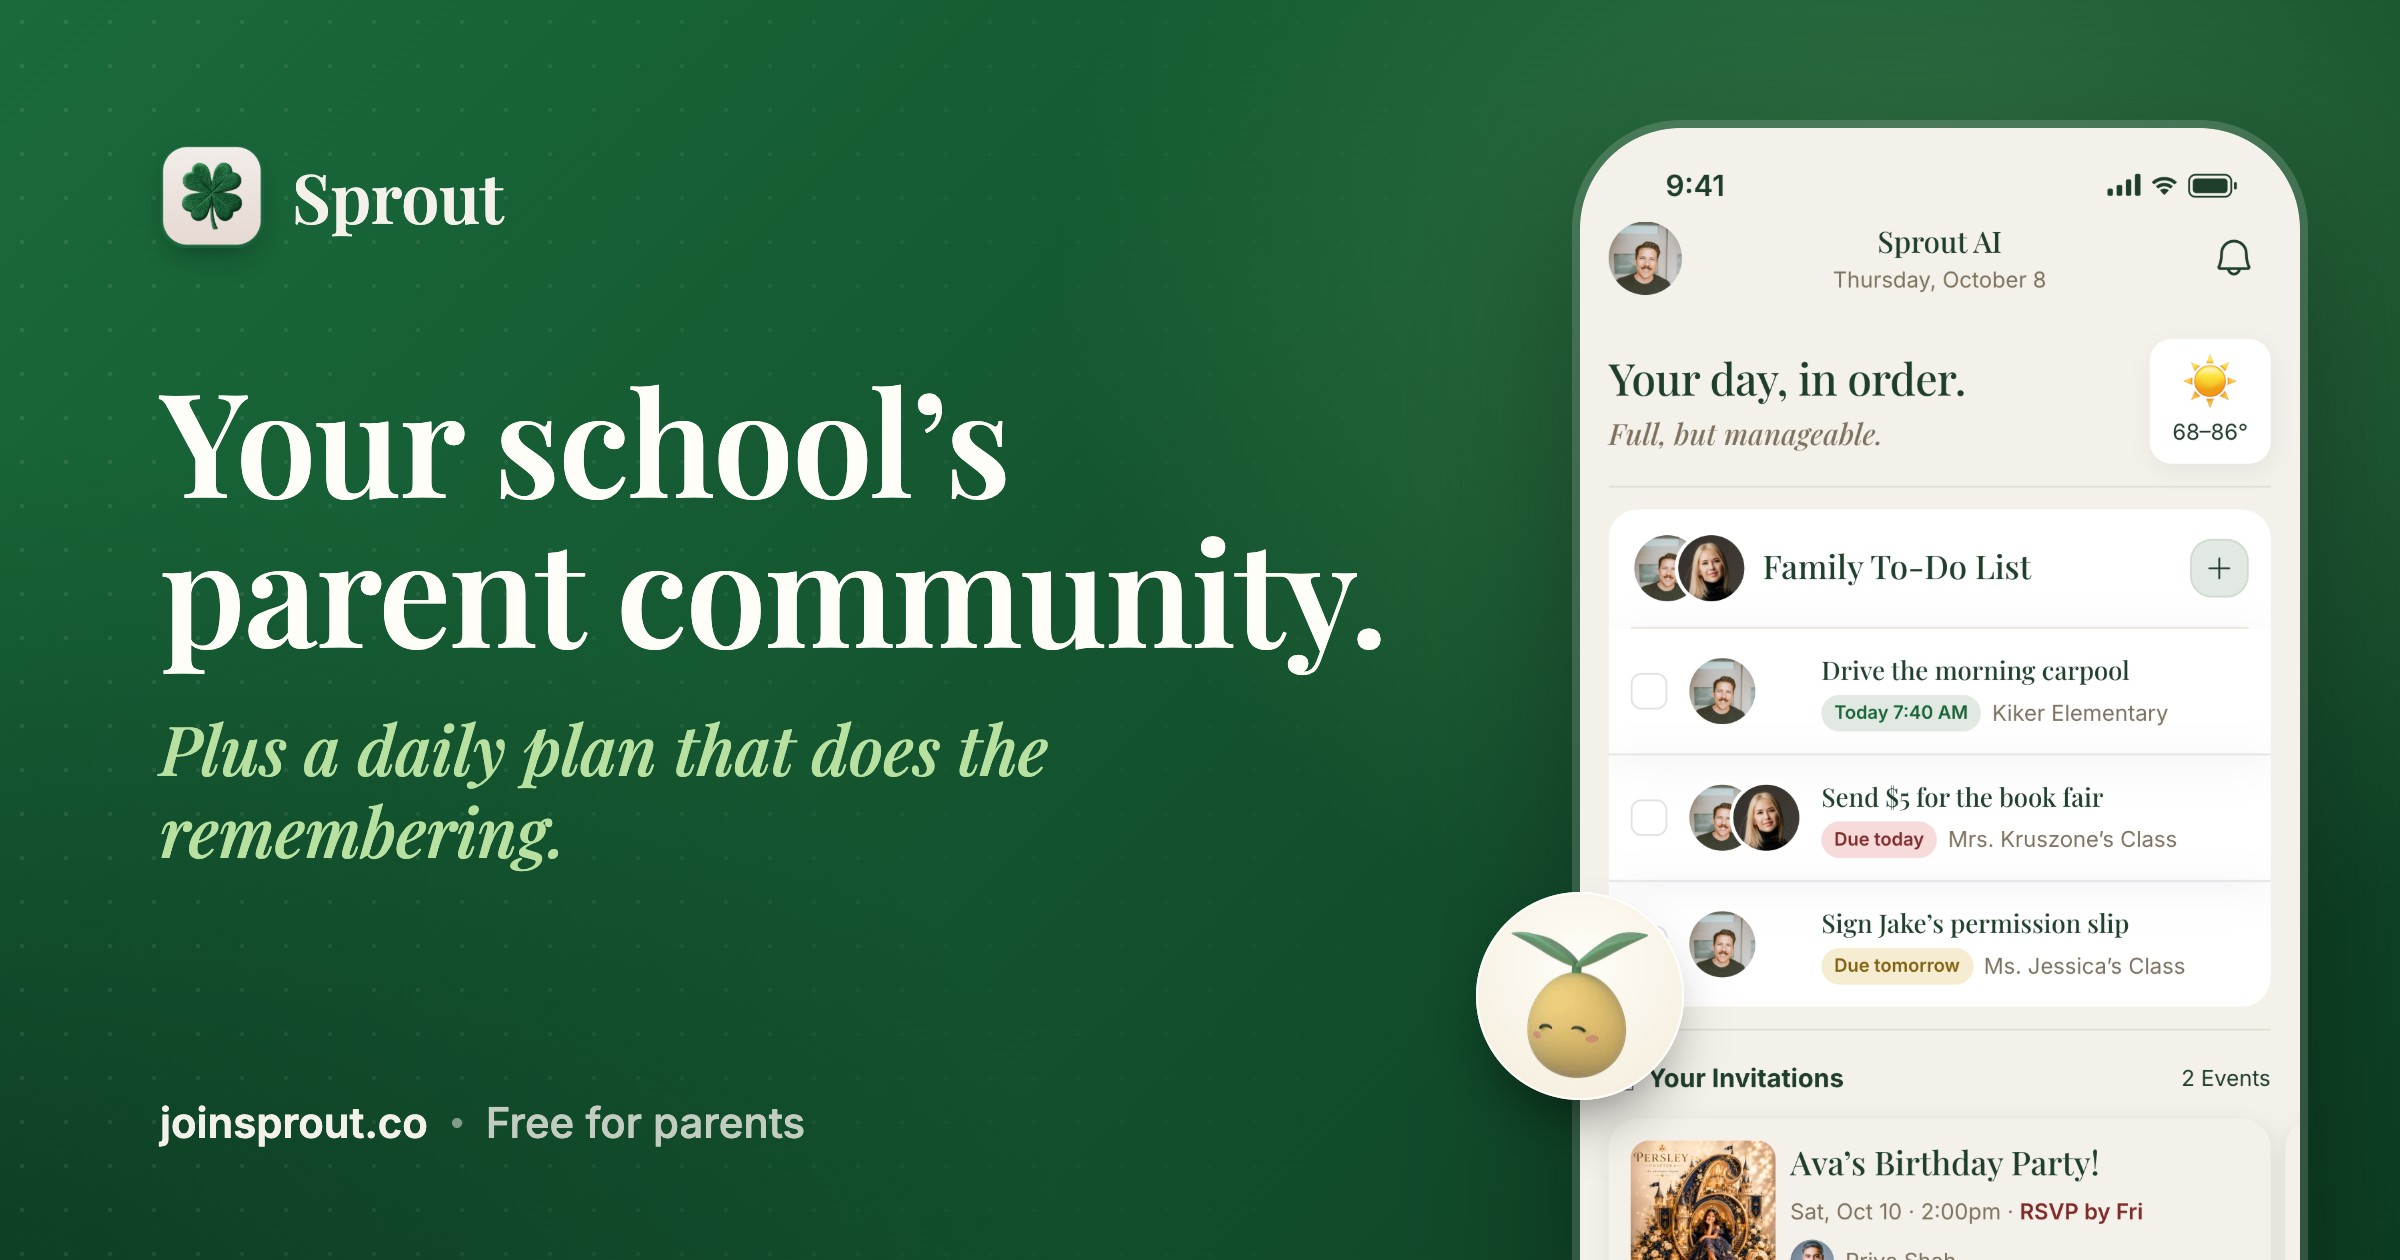
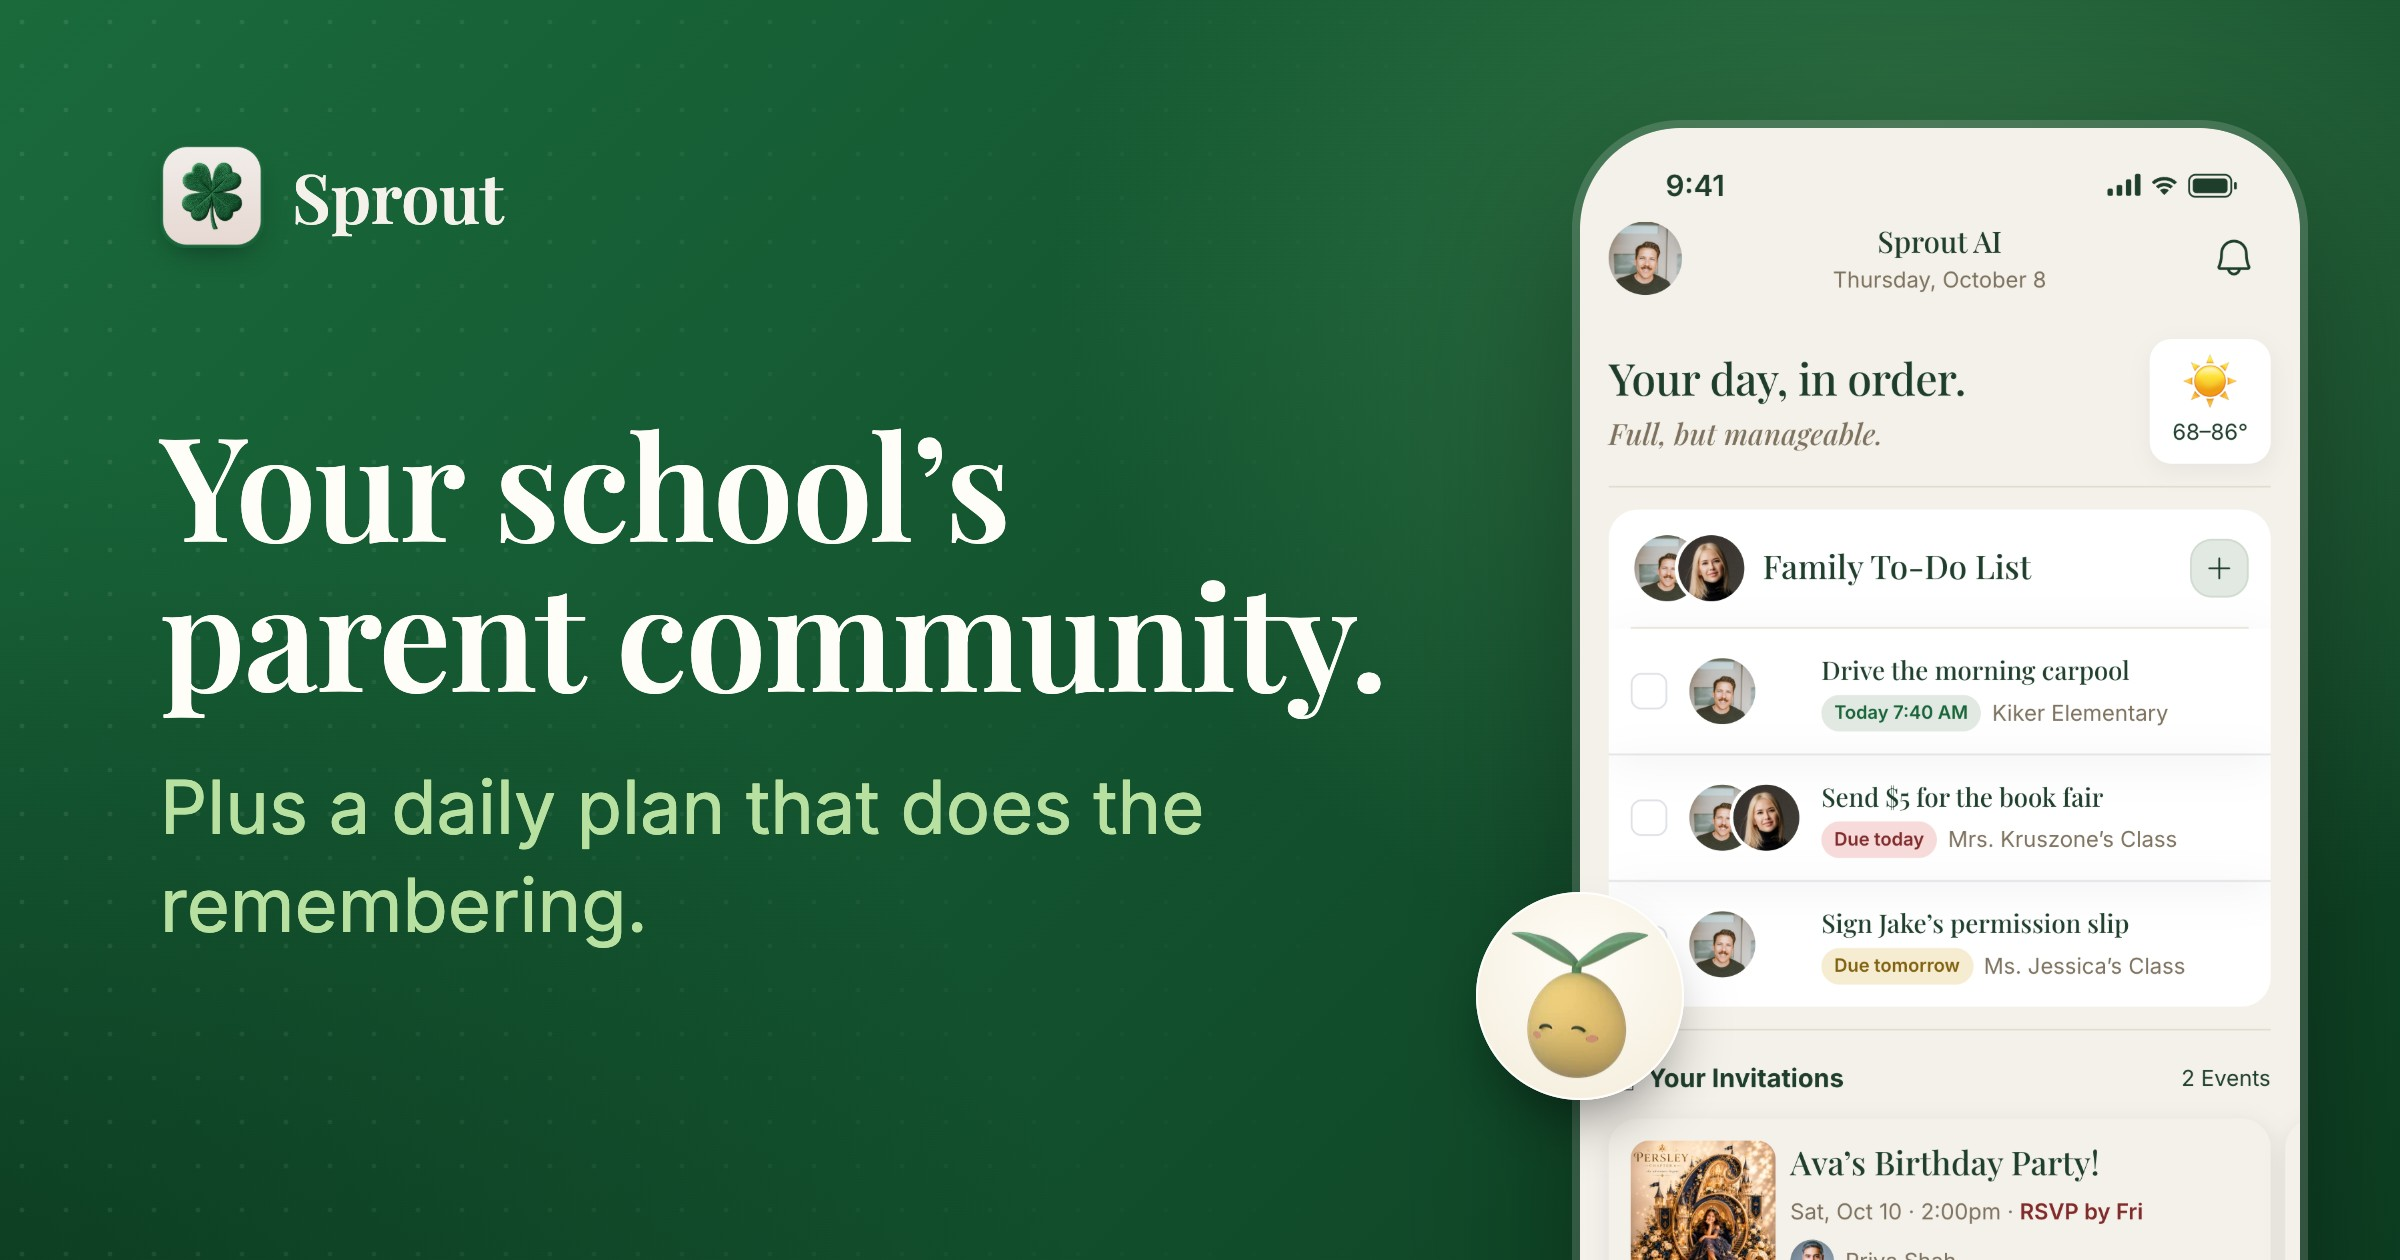
Website v2: Tony's 11 Oct feedback on the header, link card and Assist mascot
- Header: "Your school's / parent community." (one line down to 320px), mascot on its own under it, centred
- Assist teaser mascot is live like the hero's (eyes, blink, sway, hop on tap)
- Link card: subtitle upright Inter, bigger, one lockup with the title centred under the logo, no footer line
- og:title "Sprout - The parent community for your school" so iMessage doesn't repeat the image header

Changed region(s): [[0.0625, 0.3095, 0.5938, 0.7429], [0.0625, 0.8667, 0.3438, 0.9286]]

diff --git a/01 - Website/sprout-reach-scene-iteration/home-v2.html b/01 - Website/sprout-reach-scene-iteration/home-v2.html
@@ -11,14 +11,15 @@
     <meta property="og:type" content="website" />
     <meta property="og:site_name" content="Sprout" />
     <meta property="og:url" content="https://joinsprout.co/" />
-    <meta property="og:title" content="Sprout · Your school’s parent community" />
-    <meta property="og:description" content="Plus a daily plan that does the remembering. Free for parents." />
-    <meta property="og:image" content="https://joinsprout.co/assets/og/sprout-link.jpg?v=20261010" />
+    <!-- the line under the image (Tony, 11 Oct): not the image's header again -->
+    <meta property="og:title" content="Sprout - The parent community for your school" />
+    <meta property="og:description" content="Plus a daily plan that does the remembering." />
+    <meta property="og:image" content="https://joinsprout.co/assets/og/sprout-link.jpg?v=20261011-4" />
     <meta property="og:image:width" content="2400" />
     <meta property="og:image:height" content="1260" />
     <meta property="og:image:alt" content="Sprout: Your school’s parent community. Plus a daily plan that does the remembering." />
     <meta name="twitter:card" content="summary_large_image" />
-    <meta name="twitter:image" content="https://joinsprout.co/assets/og/sprout-link.jpg?v=20261010" />
+    <meta name="twitter:image" content="https://joinsprout.co/assets/og/sprout-link.jpg?v=20261011-4" />
     <meta name="robots" content="noindex,nofollow" />
     <link rel="icon" href="./assets/logo.png" />
     <link rel="preconnect" href="https://fonts.googleapis.com" />
@@ -31,7 +32,7 @@
     <link rel="stylesheet" href="./assist-demo.css?v=20260925-27" />
     <link rel="stylesheet" href="./sections-demo.css?v=20260925-2" />
     <link rel="stylesheet" href="./hero-portal.css?v=20261008-1" />
-    <link rel="stylesheet" href="./home-v2.css?v=20261010-1" />
+    <link rel="stylesheet" href="./home-v2.css?v=20261011-2" />
     <script src="./sections-demo.js?v=20260925-2" defer></script>
     <script src="./home-v2.js?v=20261009-2" defer></script>
     <script src="./hero-portal.js?v=20261007-3" defer></script>
@@ -66,7 +67,10 @@
               <!-- header (Tony, 10 Oct): the 9 Oct sentence broken into tiers, like his iMessage card. The community line
                    is the header, the daily plan is its own line under it, then the lede. The mascot stays in the header:
                    the portal grows out of it (hero-portal.js) -->
-              <h1 id="hero-h">Your school’s parent<br> <span class="nw">community.<span class="ml ml-circle h-orb" data-live role="img" aria-label="Sprout"></span></span></h1>
+              <h1 id="hero-h">Your school’s<br> <span class="nw">parent community.</span></h1>
+              <!-- Tony, 11 Oct: "parent community" on one line, the mascot on its own under the header, centred. The portal
+                   still grows out of it (hero-portal.js finds .h-orb wherever it sits) -->
+              <span class="ml ml-circle h-orb hero-ml" data-live role="img" aria-label="Sprout"></span>
               <p class="h-plus">Plus a daily plan that does the remembering.</p>
               <p class="lede">Meet other families, coordinate plans, and never miss what matters.</p>
               <!-- no button here (Tony, 9 Oct): "Join your schools" stays in the top bar and at the close -->
@@ -169,7 +173,9 @@
            mascot lives here only: "this little guy is the AI guy". -->
       <section class="assist" id="assist" aria-labelledby="assist-h">
         <div class="assist-tease">
-          <img class="assist-mascot" src="./assets/mascot/sprout-happy.webp" alt="" width="96" height="96" />
+          <!-- live, like the hero's (Tony, 11 Oct: "Can you fix this so it's animated"): eyes follow, blinks, leaves sway,
+               hops on tap (hero-portal.js, every [data-live]) -->
+          <span class="ml assist-mascot" data-live role="img" aria-label="Sprout Assist"></span>
           <div>
             <p class="eyebrow">Coming soon · Sprout Assist</p>
             <h2 id="assist-h">Camp signups done at 7:00 AM sharp, before your coffee.</h2>

diff --git a/01 - Website/sprout-reach-scene-iteration/review/og-card.html b/01 - Website/sprout-reach-scene-iteration/review/og-card.html
@@ -7,7 +7,7 @@
      iMessage"). His card is the framework: logo, "Your school's parent community.", the daily plan line, a phone with
      Today. The phone is the site's own Daily Brief, photographed by review/make-og.mjs into assets/og/brief-phone.png.
      Don't edit the PNG; edit this and run: node review/make-og.mjs -->
-<link href="https://fonts.googleapis.com/css2?family=Playfair+Display:ital,wght@0,500;0,600;1,500&family=Inter:wght@500;600&display=swap" rel="stylesheet" />
+<link href="https://fonts.googleapis.com/css2?family=Playfair+Display:ital,wght@0,500;0,600;1,500&family=Inter:wght@400;500;600&display=swap" rel="stylesheet" />
 <style>
   :root { --green: #186338; --deep: #0d3f22; --cream: #f4f1ea; --mint: #b8e0a0; }
   * { box-sizing: border-box; }
@@ -23,14 +23,15 @@
     background-image: radial-gradient(rgb(255 255 255) 1px, transparent 1.4px); background-size: 22px 22px;
     -webkit-mask-image: linear-gradient(100deg, #000 0%, transparent 62%); mask-image: linear-gradient(100deg, #000 0%, transparent 62%); }
 
-  .copy { position: absolute; left: 80px; top: 72px; width: 640px; }
+  .brand { position: absolute; left: 80px; top: 72px; }
+  /* the lockup is centred in the space under the logo (Ahmad, 11 Oct: pinned to the bottom it sat too low) */
+  .copy { position: absolute; left: 80px; top: 124px; bottom: 72px; width: 640px; display: flex; flex-direction: column; justify-content: center; }
   .brand { display: flex; align-items: center; gap: 14px; font-family: "Playfair Display", serif; font-weight: 600; font-size: 34px; color: var(--cream); }
   .brand img { width: 52px; height: 52px; border-radius: 13px; box-shadow: 0 6px 16px -6px rgb(0 0 0 / .45); }
-  h1 { margin: 58px 0 0; font-family: "Playfair Display", serif; font-weight: 600; font-size: 72px; line-height: 1.04; letter-spacing: -0.01em; color: #fffdf8; }
-  .plus { margin: 22px 0 0; max-width: 520px; font-family: "Playfair Display", serif; font-style: italic; font-weight: 500; font-size: 34px; line-height: 1.22; color: var(--mint); }
-  .foot { position: absolute; left: 80px; bottom: 56px; display: flex; align-items: center; gap: 12px; font-family: Inter, sans-serif; font-weight: 500; font-size: 21px; color: rgb(244 241 234 / .78); }
-  .foot b { font-weight: 600; color: var(--cream); }
-  .foot i { width: 5px; height: 5px; border-radius: 50%; background: rgb(244 241 234 / .5); }
+  h1 { margin: 0; font-family: "Playfair Display", serif; font-weight: 600; font-size: 72px; line-height: 1.04; letter-spacing: -0.01em; color: #fffdf8; }
+  /* Tony, 11 Oct: upright, not italic, and set apart from the header like his mockup: a sans line in light green
+     11 Oct: lower and a little bigger (Tony), and tight under the title as one lockup (Ahmad) */
+  .plus { margin: 26px 0 0; max-width: 600px; font-family: Inter, sans-serif; font-weight: 400; font-size: 37px; line-height: 1.32; color: var(--mint); }
 
   /* the phone: the site's real Daily Brief, cut off by the bottom edge like Tony's */
   .phone { position: absolute; left: 790px; top: 64px; width: 360px; filter: drop-shadow(0 30px 40px rgb(0 0 0 / .38)); }
@@ -45,12 +46,12 @@
 </head>
 <body>
   <div class="card">
+    <div class="brand"><img src="../assets/logo.png" alt="" />Sprout</div>
+    <!-- title and subtitle are one lockup (Ahmad, 11 Oct): tight together, centred under the logo -->
     <div class="copy">
-      <div class="brand"><img src="../assets/logo.png" alt="" />Sprout</div>
       <h1>Your school’s parent community.</h1>
       <p class="plus">Plus a daily plan that does the remembering.</p>
     </div>
-    <div class="foot"><b>joinsprout.co</b><i></i><span>Free for parents</span></div>
     <div class="phone"><img src="../assets/og/brief-phone.png" alt="" /></div>
     <div class="orb"><img src="../assets/mascot/sprout-happy.webp" alt="" /></div>
   </div>

diff --git a/01 - Website/sprout-reach-scene-iteration/home-v2.css b/01 - Website/sprout-reach-scene-iteration/home-v2.css
@@ -47,7 +47,7 @@ main { padding-top: 0; }
 /* Tony's 9 Oct header is a full sentence, so it runs smaller than "Your village, handled." did and wraps evenly.
    .nw keeps "school", the mascot and the comma on one line (the comma was wrapping to the start of the next line) */
 .hero-sky h1 .nw { white-space: nowrap; }
-.hero-sky h1 .h-orb.ml { margin-left: 0.14em; }
+.hero-sky .h-orb.hero-ml { display: block; width: 72px; height: 72px; margin: 22px auto 0; vertical-align: 0; }
 /* 10 Oct (Tony): broken into tiers like his iMessage card. Header big and short, the daily plan a second line in
    deep green italic, then the lede. The sky stays; the green is darkened from --green so it holds on the mid blue */
 .hero-sky h1 { font-size: clamp(44px, 6vw, 84px); line-height: 1.04; letter-spacing: -0.01em; max-width: none; margin: 0 auto; text-wrap: balance; color: #14231a; text-shadow: 0 1px 24px rgb(245 249 253 / .55); }
@@ -79,8 +79,10 @@ main { padding-top: 0; }
   /* centred in the screen (Ahmad, 8 Oct: it sat against the top bar); the padding clears the 64px bar and the
      "See your morning" button */
   .hero-sky { padding: 64px 16px 68px; justify-content: center; }
-  .hero-sky h1 { font-size: clamp(36px, 10.4vw, 46px); max-width: 11ch; }
-  .hero-sky .h-plus { font-size: clamp(20px, 5.6vw, 24px); margin-top: 14px; color: #0a3d21; text-shadow: 0 0 2px rgb(246 247 241 / .9), 0 1px 12px rgb(246 247 241 / .95); }
+  /* "parent community." must hold one line at 360 (Tony, 11 Oct), so the size follows the width */
+  .hero-sky h1 { font-size: clamp(30px, 9.4vw, 44px); max-width: none; }
+  .hero-sky .h-orb.hero-ml { width: 58px; height: 58px; margin-top: 16px; }
+  .hero-sky .h-plus { font-size: clamp(20px, 5.6vw, 24px); margin-top: 16px; color: #0a3d21; text-shadow: 0 0 2px rgb(246 247 241 / .9), 0 1px 12px rgb(246 247 241 / .95); }
   /* the sub was unreadable on iPhone (Ahmad, 9 Oct): on a phone the copy sits low, over the dark treeline, below the
      sky haze. A soft cream wash behind the whole block keeps the meadow visible and gives the sub a light ground;
      the sub goes to the header ink with a tight halo instead of the wide faint glow */
@@ -359,7 +361,7 @@ main { padding-top: 0; }
 /* 6 · Sprout Assist, a three-line teaser (Tony, 8 Oct) */
 .assist { padding: 110px clamp(16px, 4vw, 40px) 40px; background: var(--bg); }
 .assist-tease { max-width: 860px; margin: 0 auto; display: flex; gap: 28px; align-items: center; padding: 32px 36px; border-radius: 28px; background: var(--panel); box-shadow: 0 0 0 1px var(--line); }
-.assist-mascot { width: 96px; height: 96px; flex-shrink: 0; }
+.assist-mascot { display: block; width: 96px; height: 96px; flex-shrink: 0; cursor: pointer; }
 .assist-tease h2 { font-size: clamp(26px, 3vw, 38px); line-height: 1.15; }
 .assist-tease p:not(.eyebrow) { margin: 12px 0 0; font-size: 17px; }
 .assist-tease .eyebrow { margin-bottom: 10px; }
